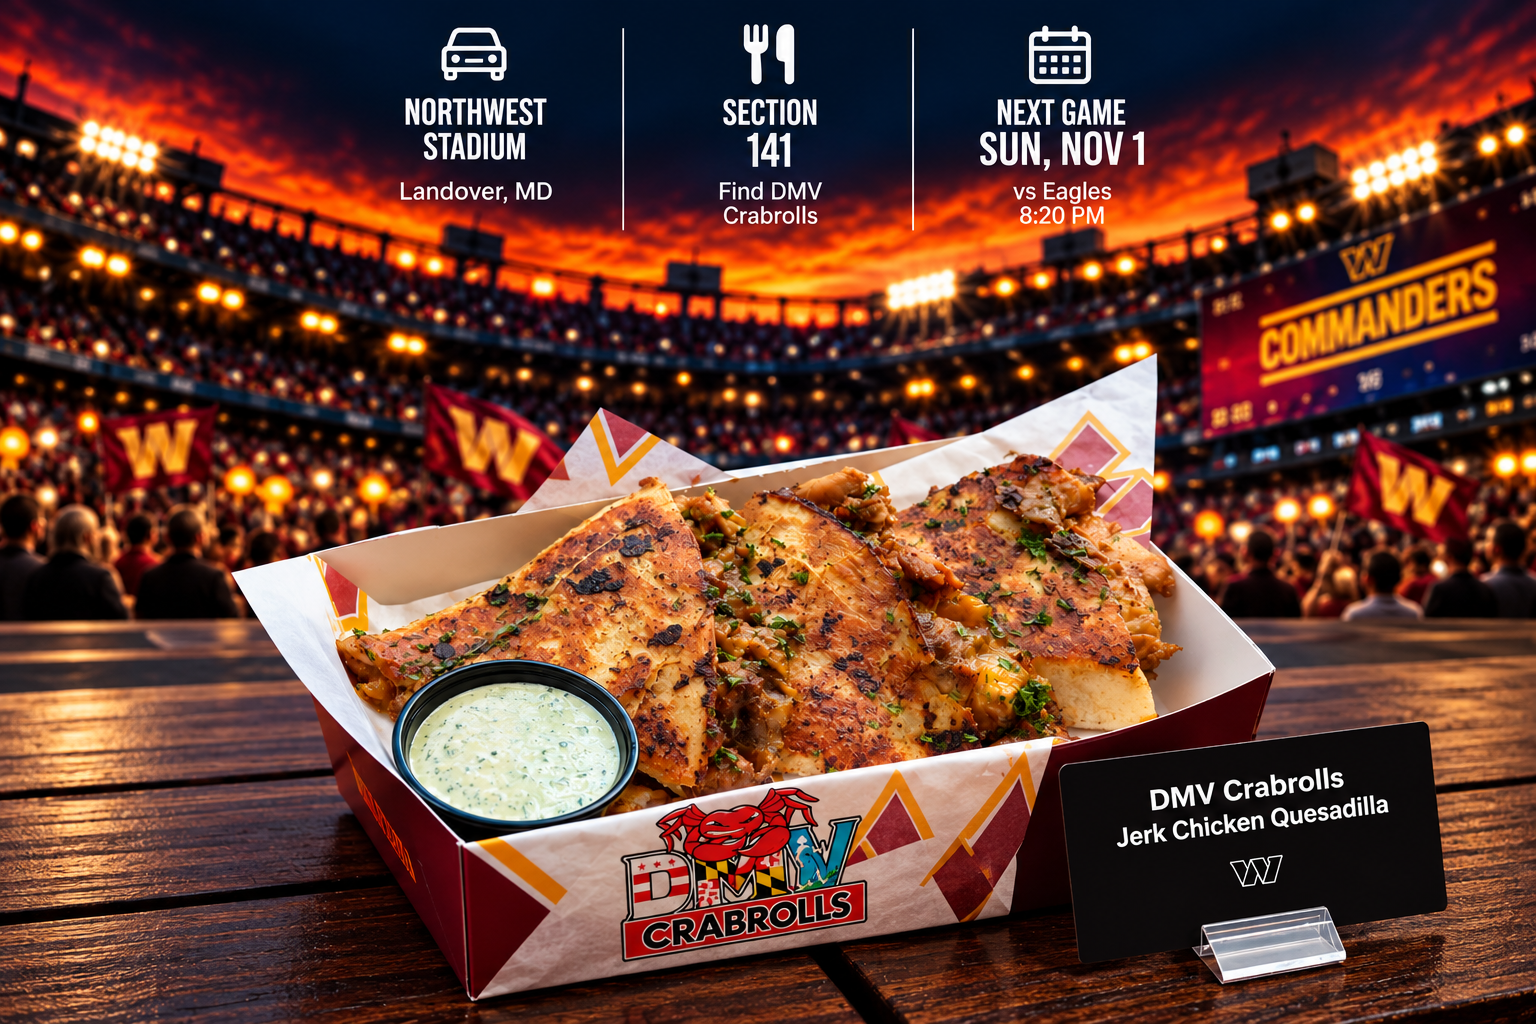
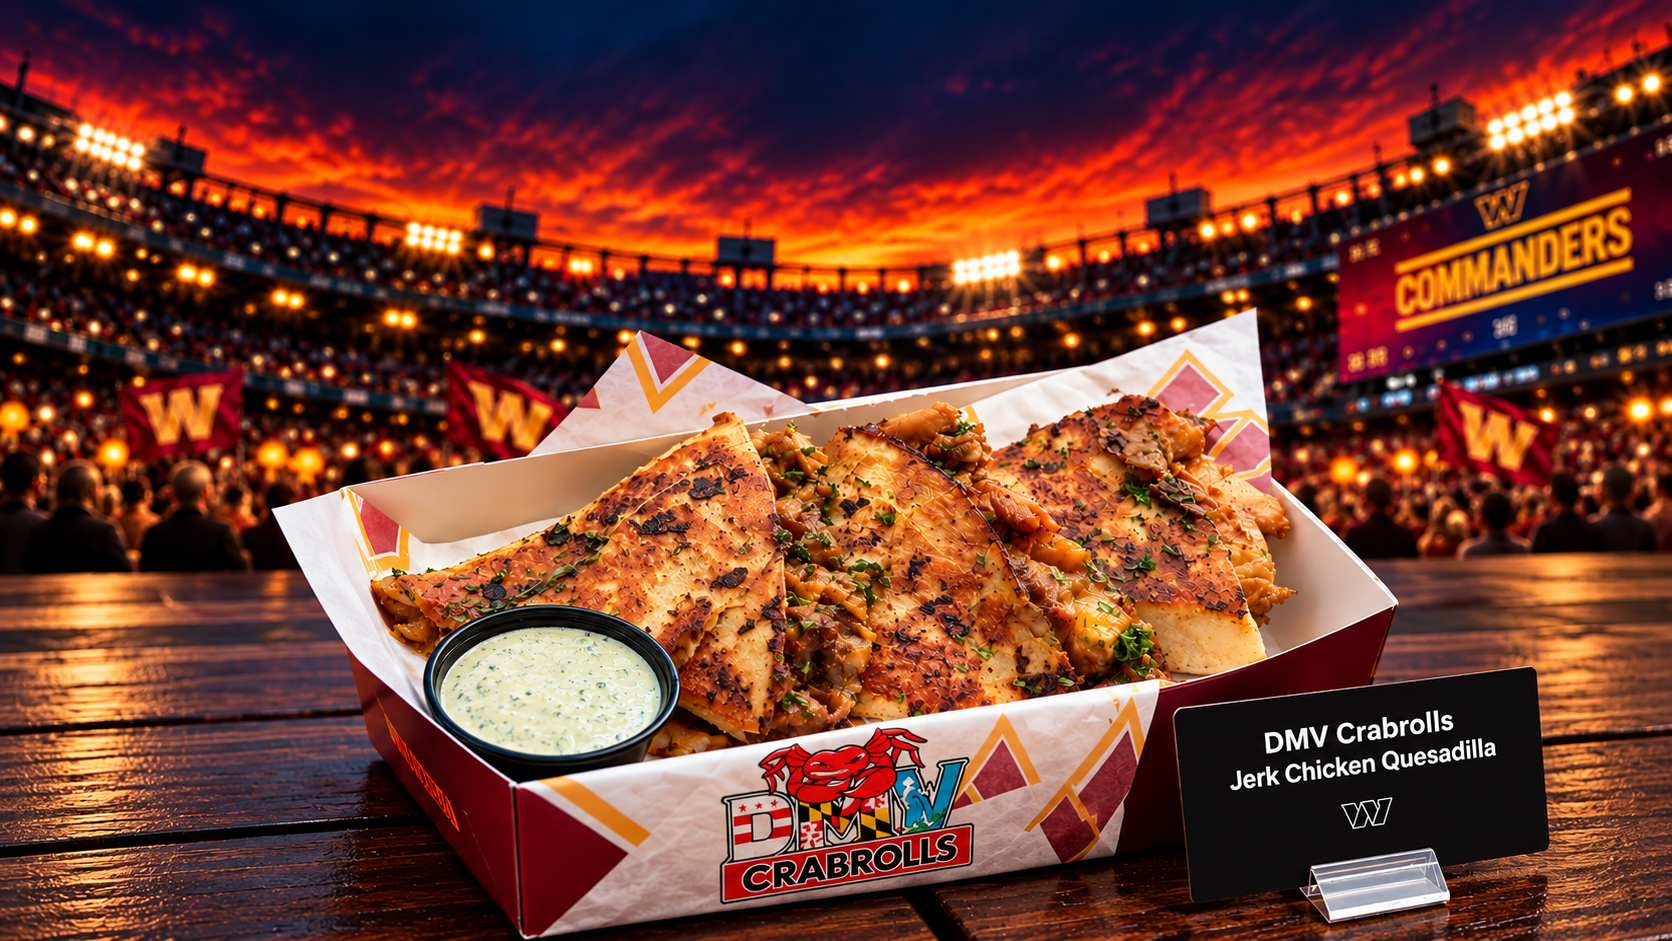
Find us: clean food graphics with Northwest Stadium, Section 141 and live next game on top; remove directions button
Claude-Session: https://claude.ai/code/session_0168aXNqVtxG9bzcPEt8M6Zv

diff --git a/index.html b/index.html
@@ -57,9 +57,16 @@
 </div></section>
 <section class="find-showcase" id="find-us" aria-labelledby="find-title">
 <h2 id="find-title" class="sr-only">Find us at Section 141</h2>
-<div class="fs-food fs-food-desk" aria-hidden="true"><div class="fs-slide on"><img src="assets/find-desk-crabroll.png" alt=""></div><div class="fs-slide"><img src="assets/find-desk-quesadilla.png" alt=""></div><div class="fn-card fn-desk" aria-hidden="false"><svg viewBox="0 0 24 24" aria-hidden="true"><path d="M7 2v3H5a2 2 0 0 0-2 2v13a2 2 0 0 0 2 2h14a2 2 0 0 0 2-2V7a2 2 0 0 0-2-2h-2V2h-2v3H9V2H7zm-2 8h14v10H5V10z" fill="currentColor"/></svg><small>Next game</small><strong class="fn-date">See the schedule</strong><span class="fn-opp"></span><span class="fn-time"></span></div></div>
-<div class="fs-food fs-food-mob" aria-hidden="true"><div class="fs-slide on"><img src="assets/find-mobile-crabroll.jpg" alt=""></div><div class="fs-slide"><img src="assets/find-mobile-quesadilla.jpg" alt=""></div><div class="fn-card fn-mob" aria-hidden="false"><svg viewBox="0 0 24 24" aria-hidden="true"><path d="M7 2v3H5a2 2 0 0 0-2 2v13a2 2 0 0 0 2 2h14a2 2 0 0 0 2-2V7a2 2 0 0 0-2-2h-2V2h-2v3H9V2H7zm-2 8h14v10H5V10z" fill="currentColor"/></svg><small>Next game</small><strong class="fn-date">See the schedule</strong><span class="fn-opp"></span><span class="fn-time"></span></div></div>
-<div class="fs-actions"><a class="button navy" href="https://www.google.com/maps/search/?api=1&query=Northwest+Stadium+Landover+Maryland" target="_blank" rel="noopener">Get directions <span>↗</span></a><p class="small-note">Check stadium access and concession availability before visiting.</p></div>
+<div class="fs-food fs-food-desk" aria-hidden="true"><div class="fs-info">
+<div class="fs-cell"><svg viewBox="0 0 24 24" aria-hidden="true"><path d="M5 11l1.5-4.5A2 2 0 0 1 8.4 5h7.2a2 2 0 0 1 1.9 1.5L19 11v6a1 1 0 0 1-1 1h-1a1 1 0 0 1-1-1v-1H8v1a1 1 0 0 1-1 1H6a1 1 0 0 1-1-1v-6zm2.2-1h9.6l-1-3H8.2l-1 3z" fill="currentColor"/></svg><strong>Northwest Stadium</strong><span>Landover, MD</span></div>
+<div class="fs-cell"><svg viewBox="0 0 24 24" aria-hidden="true"><path d="M7 3v8a2 2 0 0 0 2 2v8h2v-8a2 2 0 0 0 2-2V3h-2v5h-1V3H9v5H8V3H7zm10 0c-1.7 0-3 1.5-3 3.5V11h2v10h2V3h-1z" fill="currentColor"/></svg><strong>Section 141</strong><span>Find DMV Crabrolls</span></div>
+<div class="fs-cell fs-next"><svg viewBox="0 0 24 24" aria-hidden="true"><path d="M7 2v3H5a2 2 0 0 0-2 2v13a2 2 0 0 0 2 2h14a2 2 0 0 0 2-2V7a2 2 0 0 0-2-2h-2V2h-2v3H9V2H7zm-2 8h14v10H5V10z" fill="currentColor"/></svg><small>Next game</small><strong class="fn-date">See the schedule</strong><span class="fn-opp"></span><span class="fn-time"></span></div>
+</div><div class="fs-slide on"><img src="assets/find-desk-crabroll.png" alt=""></div><div class="fs-slide"><img src="assets/find-desk-quesadilla.png" alt=""></div></div>
+<div class="fs-food fs-food-mob" aria-hidden="true"><div class="fs-info">
+<div class="fs-cell"><svg viewBox="0 0 24 24" aria-hidden="true"><path d="M5 11l1.5-4.5A2 2 0 0 1 8.4 5h7.2a2 2 0 0 1 1.9 1.5L19 11v6a1 1 0 0 1-1 1h-1a1 1 0 0 1-1-1v-1H8v1a1 1 0 0 1-1 1H6a1 1 0 0 1-1-1v-6zm2.2-1h9.6l-1-3H8.2l-1 3z" fill="currentColor"/></svg><strong>Northwest Stadium</strong><span>Landover, MD</span></div>
+<div class="fs-cell"><svg viewBox="0 0 24 24" aria-hidden="true"><path d="M7 3v8a2 2 0 0 0 2 2v8h2v-8a2 2 0 0 0 2-2V3h-2v5h-1V3H9v5H8V3H7zm10 0c-1.7 0-3 1.5-3 3.5V11h2v10h2V3h-1z" fill="currentColor"/></svg><strong>Section 141</strong><span>Find DMV Crabrolls</span></div>
+<div class="fs-cell fs-next"><svg viewBox="0 0 24 24" aria-hidden="true"><path d="M7 2v3H5a2 2 0 0 0-2 2v13a2 2 0 0 0 2 2h14a2 2 0 0 0 2-2V7a2 2 0 0 0-2-2h-2V2h-2v3H9V2H7zm-2 8h14v10H5V10z" fill="currentColor"/></svg><small>Next game</small><strong class="fn-date">See the schedule</strong><span class="fn-opp"></span><span class="fn-time"></span></div>
+</div><div class="fs-slide on"><img src="assets/find-mobile-crabroll.png" alt=""></div><div class="fs-slide"><img src="assets/find-mobile-quesadilla.png" alt=""></div></div>
 </section>
 <section class="catering wrap" id="catering" aria-labelledby="catering-title"><div><p class="eyebrow">Catering / Celebrations / Community</p><h2 id="catering-title">WE DO CATERING</h2><p>Planning a party, team gathering, or company event? Start with the food everyone will be talking about.</p><div class="event-types"><span>Private parties</span><span>Company events</span><span>Community gatherings</span></div><button class="button yellow" data-catering>Plan your event <span>→</span></button></div><aside class="catering-note"><span class="handwritten">Let’s bring<br>people together.</span><span class="note-star" aria-hidden="true">★</span><p>Tell us when.<br>Tell us where.<br>We’ll talk flavor.</p><span class="note-brand">DMV CRABROLLS</span></aside></section>
 <div class="moments-band"><div class="film-strip" aria-hidden="true"></div>

diff --git a/styles.css b/styles.css
@@ -538,7 +538,6 @@ html.intro-playing .intro-hero{min-height:0;display:flex}
 @media(prefers-reduced-motion:reduce){.fs-slide{transition:none}}
 
 /* Round 16: original graphics shown uncropped; the two food shots stack and crossfade */
-.fs-food{display:grid;overflow:visible;height:auto;margin:0}
 .fs-food::before{display:none}
 .fs-food-mob{display:none}
 .fs-food>.fs-slide{grid-area:1/1;position:relative;opacity:0;transition:opacity 1.3s ease}
@@ -551,32 +550,26 @@ html.intro-playing .intro-hero{min-height:0;display:flex}
 .find-showcase{padding-bottom:40px}
 .fs-next-line{margin-bottom:22px}
 
-/* Round 17: the calendar block in the graphic is covered by a navy card with the live next game */
-.fs-food{container-type:inline-size}
-.fn-card{position:absolute;display:flex;flex-direction:column;align-items:center;justify-content:center;text-align:center;background:linear-gradient(rgba(7,30,51,.92),rgba(7,30,51,.82));border:1px solid rgba(255,202,39,.45);border-radius:6px;color:#fff;box-shadow:0 10px 30px rgba(0,0,0,.35);padding:1.2cqw;z-index:2}
-.fn-card svg{width:9cqw;height:9cqw;color:#fff;margin-bottom:1cqw}
-.fn-card small{font-family:var(--label);font-weight:700;letter-spacing:.2em;text-transform:uppercase;color:var(--gold);font-size:2.4cqw}
-.fn-card .fn-date{font-family:var(--display);font-weight:400;text-transform:uppercase;font-size:4.6cqw;line-height:1;margin:1cqw 0}
-.fn-card .fn-opp{font-family:var(--body);font-weight:600;font-size:2.6cqw;color:#e2e8ee}
-.fn-card .fn-time{font-family:var(--body);font-weight:600;font-size:2.4cqw;color:#e2e8ee}
-.fn-desk{left:63.1%;top:1.76%;width:12.4%;height:21.5%}
-.fn-mob{left:68.3%;top:1.24%;width:20.9%;height:18.4%}
-.fn-mob .fn-date{font-size:6.4cqw}
-.fn-mob svg{width:12cqw;height:12cqw}
-.fn-mob small{font-size:3.2cqw}
-.fn-mob .fn-opp,.fn-mob .fn-time{font-size:3.4cqw}
 @media(max-width:800px){.fn-desk{display:none}}
 @media(min-width:801px){.fn-mob{display:none}}
-/* fit the live card inside the calendar block on each size */
-.fn-card{padding:.5cqw;gap:0}
-.fn-card svg{width:3.4cqw;height:3.4cqw;margin-bottom:.4cqw}
-.fn-card small{font-size:1.25cqw;letter-spacing:.14em}
-.fn-card .fn-date{font-size:2.9cqw;margin:.3cqw 0;line-height:.95}
-.fn-card .fn-opp{font-size:1.65cqw;line-height:1.2}
-.fn-card .fn-time{font-size:1.55cqw;line-height:1.2}
-.fn-mob svg{width:6cqw;height:6cqw}
-.fn-mob small{font-size:2.1cqw}
-.fn-mob .fn-date{font-size:4.9cqw}
-.fn-mob .fn-opp,.fn-mob .fn-time{font-size:2.5cqw}
-.fn-desk .fn-date{font-size:2.45cqw}
-.fn-mob .fn-date{font-size:4.2cqw}
+
+/* Round 18: clean graphics, info overlaid on top in the original design */
+.find-showcase{background:#071e33;padding:0}
+.fs-food{position:relative;display:grid;overflow:hidden}
+.fs-food::after{content:'';position:absolute;inset:0 0 auto;height:34%;background:linear-gradient(rgba(3,23,44,.92),rgba(3,23,44,.55) 60%,transparent);z-index:1;pointer-events:none}
+.fs-food-mob{display:none}
+.fs-food>.fs-slide{grid-area:1/1;opacity:0;transition:opacity 1.3s ease}
+.fs-food>.fs-slide.on{opacity:1}
+.fs-slide img{display:block;width:100%;height:auto}
+.fs-info{position:absolute;top:0;left:0;right:0;z-index:2;display:grid;grid-template-columns:repeat(3,minmax(0,1fr));padding:3.2% 4% 0;color:#fff;text-align:center}
+.fs-cell{display:flex;flex-direction:column;align-items:center;gap:.35em;padding:0 1.2%;border-left:2px solid rgba(255,202,39,.5)}
+.fs-cell:first-child{border-left:0}
+.fs-cell svg{width:2.6em;height:2.6em;color:#fff;margin-bottom:.1em}
+.fs-cell strong{font-family:var(--display);font-weight:400;text-transform:uppercase;line-height:1.02;font-size:clamp(18px,2.4vw,36px);letter-spacing:.5px}
+.fs-cell span{font-family:var(--body);font-weight:600;font-size:clamp(12px,1.2vw,17px);color:#e2e8ee}
+.fs-cell small{font-family:var(--label);font-weight:700;letter-spacing:.2em;text-transform:uppercase;color:var(--gold);font-size:clamp(11px,1.1vw,15px)}
+.fs-next .fn-date{font-size:clamp(20px,2.6vw,40px)}
+@media(max-width:800px){.fs-food-desk{display:none}.fs-food-mob{display:grid}}
+@media(max-width:800px){.fs-info{padding:5% 3% 0}.fs-cell{gap:.2em}.fs-cell svg{width:1.9em;height:1.9em}.fs-cell strong{font-size:clamp(13px,4vw,20px)}.fs-cell span{font-size:clamp(10px,3vw,14px)}.fs-cell small{font-size:10px}.fs-next .fn-date{font-size:clamp(15px,5vw,24px)}}
+.find-showcase{padding-bottom:0}
+.fs-food{background:#071e33}
